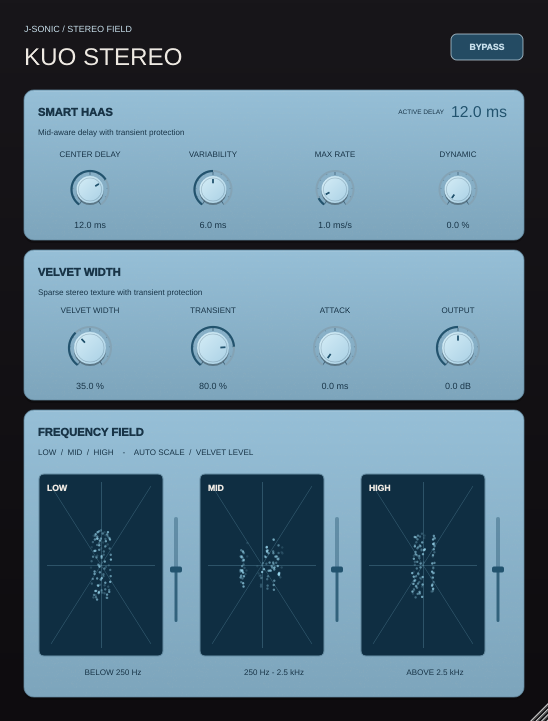
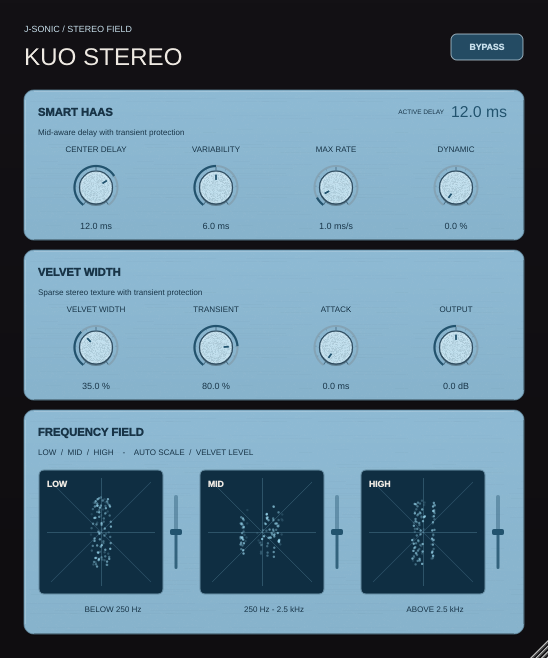
Compact Kuo Stereo meters and match Velvet knob size

diff --git a/projects/KuoStereo/Source/PluginEditor.cpp b/projects/KuoStereo/Source/PluginEditor.cpp
@@ -127,7 +127,7 @@ KuoStereoEditor::KuoStereoEditor (KuoStereoProcessor& p)
         auto& slider = sliders[i];
         slider.setLookAndFeel (&look);
         slider.setSliderStyle (juce::Slider::RotaryHorizontalVerticalDrag);
-        slider.setTextBoxStyle (juce::Slider::TextBoxBelow, false, 104, 17);
+        slider.setTextBoxStyle (juce::Slider::TextBoxBelow, false, 82, 17);
         slider.setColour (juce::Slider::textBoxOutlineColourId, juce::Colours::transparentBlack);
         slider.setColour (juce::Slider::textBoxTextColourId, secondary);
         slider.setTextValueSuffix (units[i]);
@@ -190,14 +190,14 @@ void KuoStereoEditor::resized()
     titleHint.setBounds (24, 38, 410, 38);
     bypass.setBounds (450, 33, 74, 28);
     const std::array<juce::Rectangle<int>, 8> positions {
-        juce::Rectangle<int> (38, 163, 104, 70),
-        juce::Rectangle<int> (161, 163, 104, 70),
-        juce::Rectangle<int> (283, 163, 104, 70),
-        juce::Rectangle<int> (406, 163, 104, 70),
-        juce::Rectangle<int> (38, 319, 104, 75),
-        juce::Rectangle<int> (161, 319, 104, 75),
-        juce::Rectangle<int> (283, 319, 104, 75),
-        juce::Rectangle<int> (406, 319, 104, 75)
+        juce::Rectangle<int> (55, 158, 82, 76),
+        juce::Rectangle<int> (175, 158, 82, 76),
+        juce::Rectangle<int> (295, 158, 82, 76),
+        juce::Rectangle<int> (415, 158, 82, 76),
+        juce::Rectangle<int> (55, 318, 82, 76),
+        juce::Rectangle<int> (175, 318, 82, 76),
+        juce::Rectangle<int> (295, 318, 82, 76),
+        juce::Rectangle<int> (415, 318, 82, 76)
     };
     for (size_t i = 0; i < sliders.size(); ++i)
     {
@@ -206,7 +206,7 @@ void KuoStereoEditor::resized()
     }
     constexpr std::array<int, 3> bandX { 168, 329, 490 };
     for (size_t i = 0; i < bandSliders.size(); ++i)
-        bandSliders[i].setBounds (bandX[i], 504, 16, 131);
+        bandSliders[i].setBounds (bandX[i], 482, 16, 100);
 
     const auto scale = editorScaling::transform (*this, designWidth, designHeight);
     titleHint.setTransform (scale);
@@ -219,7 +219,9 @@ void KuoStereoEditor::resized()
 void KuoStereoEditor::timerCallback()
 {
     repaint (editorScaling::repaintArea (*this, designWidth, designHeight,
-                                        { 24, 90, 500, 607 }));
+                                        { 360, 100, 150, 28 }));
+    repaint (editorScaling::repaintArea (*this, designWidth, designHeight,
+                                        { 39, 470, 446, 124 }));
 }
 
 void KuoStereoEditor::paint (juce::Graphics& g)
@@ -238,7 +240,7 @@ void KuoStereoEditor::paint (juce::Graphics& g)
     g.drawText ("KUO STEREO", 24, 38, 410, 38, juce::Justification::centredLeft);
     drawPanel (g, { 24, 90, 500, 150 });
     drawPanel (g, { 24, 250, 500, 150 });
-    drawPanel (g, { 24, 410, 500, 287 });
+    drawPanel (g, { 24, 410, 500, 224 });
     g.setColour (secondary);
     g.setFont (juce::FontOptions (13.0f).withStyle ("bold"));
     g.drawText ("SMART HAAS", 38, 102, 250, 20, juce::Justification::centredLeft);
@@ -261,14 +263,14 @@ void KuoStereoEditor::paint (juce::Graphics& g)
     const auto displayedDelayMs = std::abs (activeDelayMs) < 0.05f ? 0.0f : activeDelayMs;
     g.drawText (juce::String (displayedDelayMs, 1) + " ms", 391, 101, 116, 22,
                 juce::Justification::centredRight);
-    paintScope (g, 0, { 39, 474, 124, 182 });
-    paintScope (g, 1, { 200, 474, 124, 182 });
-    paintScope (g, 2, { 361, 474, 124, 182 });
+    paintScope (g, 0, { 39, 470, 124, 124 });
+    paintScope (g, 1, { 200, 470, 124, 124 });
+    paintScope (g, 2, { 361, 470, 124, 124 });
     g.setColour (secondary);
     g.setFont (juce::FontOptions (9.0f));
-    g.drawText ("BELOW 250 Hz", 39, 664, 148, 16, juce::Justification::centred);
-    g.drawText ("250 Hz - 2.5 kHz", 200, 664, 148, 16, juce::Justification::centred);
-    g.drawText ("ABOVE 2.5 kHz", 361, 664, 148, 16, juce::Justification::centred);
+    g.drawText ("BELOW 250 Hz", 39, 601, 148, 16, juce::Justification::centred);
+    g.drawText ("250 Hz - 2.5 kHz", 200, 601, 148, 16, juce::Justification::centred);
+    g.drawText ("ABOVE 2.5 kHz", 361, 601, 148, 16, juce::Justification::centred);
     g.restoreState();
 }
 

diff --git a/projects/KuoStereo/Tests/ProcessorTests.cpp b/projects/KuoStereo/Tests/ProcessorTests.cpp
@@ -779,8 +779,8 @@ int main (int argc, char** argv)
                    "each frequency-split goniometer receives its own processed band");
             std::unique_ptr<juce::AudioProcessorEditor> editor (preview.createEditor());
             editor->setVisible (true);
-            check (editor && editor->getWidth() == 548 && editor->getHeight() == 721,
-                   "editor is 20 px shorter after reducing the sound field meters");
+            check (editor && editor->getWidth() == 548 && editor->getHeight() == 658,
+                   "editor fits the square sound-field meters");
             int tooltipWindows = 0, hintedControls = 0;
             for (auto* child : editor->getChildren())
             {
@@ -848,7 +848,7 @@ int main (int argc, char** argv)
                        && juce::File (argv[2]).replaceWithData (png.getData(), png.getDataSize()),
                        "editor preview writes");
             }
-            for (const auto size : { juce::Point<int> (274, 361), juce::Point<int> (658, 865) })
+            for (const auto size : { juce::Point<int> (274, 329), juce::Point<int> (658, 790) })
             {
                 editor->setSize (size.x, size.y);
                 const auto control = editor->getLocalArea (firstKnob, firstKnob->getLocalBounds());

diff --git a/projects/KuoStereo/Source/PluginEditor.h b/projects/KuoStereo/Source/PluginEditor.h
@@ -31,7 +31,7 @@ public:
 
 private:
     pluginGpu::Renderer gpu;
-    static constexpr int designWidth = 548, designHeight = 721;
+    static constexpr int designWidth = 548, designHeight = 658;
     void timerCallback() override;
     void paintScope (juce::Graphics&, int, juce::Rectangle<float>);
     KuoStereoProcessor& processor;

diff --git a/projects/KuoStereo/README.md b/projects/KuoStereo/README.md
@@ -5,10 +5,10 @@ fade reaches silence, while its onset detector and input history stay live for
 Haas protection and reactivation. Bypass keeps both Haas search and Velvet hot.
 
 Kuo Stereo is J-SONIC's stereo widener plug-in. It is a separate JUCE project
-alongside Yinyang Compressor and Shun De-Esser, with the same dark analog panel,
-rotary controls, and amber accents. The [editor preview](Previews/kuo-stereo.png)
+alongside Yinyang Compressor and Shun De-Esser, with a blue metallic panel and
+rotary controls matched in size to Kuo Velvet. The [editor preview](Previews/kuo-stereo.png)
 shows its three sections.
-The sound field displays are 182 px tall in the default 548 × 721 editor.
+The sound field displays are square at 124 × 124 px in the default 548 × 658 editor.
 The editor resizes from 50% to 120% with a fixed aspect ratio.
 
 The [feature measurement report](Measurements/Report/REPORT.md) includes
